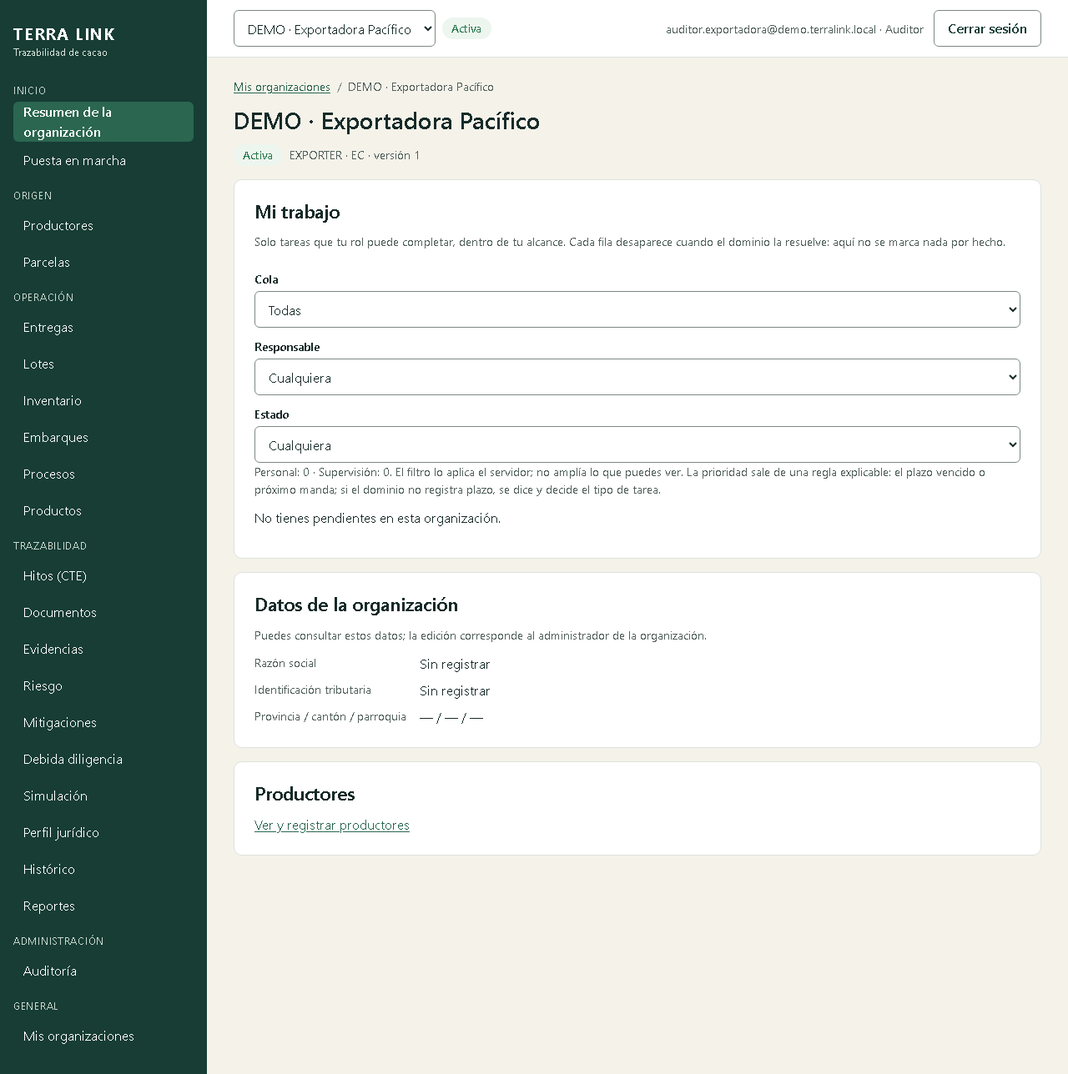
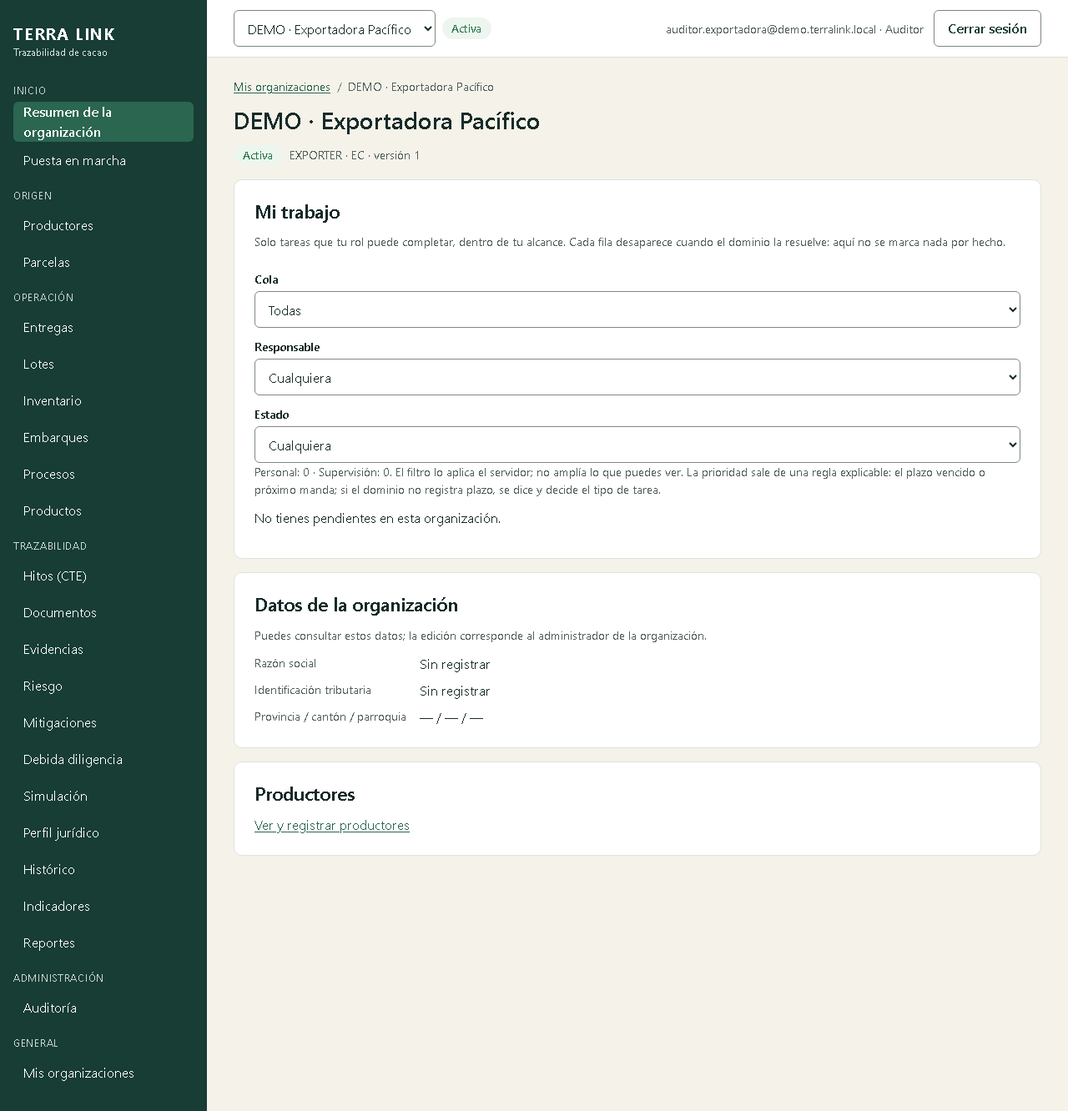
Resultados P1-014: RF-45 parcial sobre 1967366, con su condición exacta
`npm run validate` APROBADA sobre `1967366`: 849 pruebas, 72 E2E, 0 fallos
(validation-results/2026-10-18T20-43-24-702Z), con el código congelado. Desplegado y
comprobado sobre ese SHA: `indicadores.mjs` 22/22. Sin migración, así que no
corresponde respaldo.

RF-45 queda PARCIAL, y su condición NO es la escasez de datos DEMO: la parte «métrica
independiente del riesgo legal» está demostrada, pero el score compuesto exige
ponderar dimensiones con pesos que ninguna fuente fija (D-53 §1). Con datos
abundantes seguiría sin poder calcularse honestamente.

Por eso la cobertura NO sube: sigue en 39 de 60 (65,0 %). El MVP tampoco cambia, y
siguen en pie UNDETERMINED, READY y las compuertas de despacho.

D-53 propuesta recoge las cuatro decisiones abiertas —composición del score, umbral de
«datos suficientes», atribución de precio a un comprador y serie de rendimiento—, cada
una con su condición.

diff --git a/docs/sesiones/REANUDAR_2026-10-16.md b/docs/sesiones/REANUDAR_2026-10-16.md
@@ -390,6 +390,7 @@ nunca reconstruir con `up()`. **`down` no se ejecuta sobre desarrollo.**
 | **P0-003** elevación supervisada (D-04) + descarga por concesión | `de7f996` | 638 pruebas · 72 E2E | **P0-003 DONE_LOCAL.** RF-03 y RNF-01 demostrados. `8f54b71` aprobó pero **incumplía el contrato** (ver evidencia) |
 | **RNF-10 / RNF-12** avisos operativos y ensayo de retorno | `9f27cbe` | 644 pruebas · 72 E2E | Ambos **demostrados**. `/operations/alerts` y `scripts/ensayo-retorno.mjs`. P0-031 y TECH-001 **siguen abiertas** |
 | **RNF-13** observabilidad: avisos separados, métricas y trazas | `83f7d7a` | **677** pruebas · 72 E2E | **RNF-13 dada de alta y demostrada** (S1 §77: *metrics*, *tracing*, `/version`): el catálogo pasa a **60** (MVP **44**). Corregida la exposición anónima de recuentos de documentos y trabajos: la respuesta pública queda en **infraestructura** y la actividad pasa a una ruta **por organización, permiso a permiso**. **D-04 no se amplió.** `e2e/review/observabilidad.mjs` **23/23**. **RNF-05 y RNF-06 siguen pendientes** |
+| **P1-014**: indicadores comerciales · **RF-45 PARCIAL**, P1-014 entregada en su parte demostrable · **D-52(A) adoptada** | `1967366` | **849** pruebas · 72 E2E | **D-52(A) ratificada** en sus tres puntos (base declarada por registro; prima por unidad o fija con fundamento obligatorio y nunca deducida; permisos económicos propios con el auditor de solo lectura): **no cambió código**, así que no repitió validación ni despliegue. **P1-014**: siete **indicadores autodescritos** —qué mide, **fórmula**, unidad, período, **denominador**, cobertura, **procedencia** y límites—, **sin tabla nueva**. Solo se agrega **lo compatible** en moneda, unidad, producto y período; lo demás **se excluye y se cuenta**, nunca se convierte. **`SIN_DATOS`, `NO_CALCULABLE` y `RESTRINGIDO` son tres cosas distintas** y se distinguen a la vista; el cociente **trunca** a seis decimales —como P1-010— y **lo declara**. **Precio declarado ≠ pago informado ≠ presupuesto estimado**: un presupuesto **no demuestra eficiencia** y un pago informado **no acredita una transferencia**. **Separación del riesgo cumplida (RF-45)**: ningún indicador usa conclusión, severidad ni resultado técnico, y el riesgo va **aparte** diciendo que **`UNDETERMINED` no es riesgo bajo**. **Permisos sobre agregados**: `analytics:read` abre la pantalla y **cada indicador exige el de su dominio** —sin él, RESTRINGIDO **sin valor, denominador ni cobertura**—; la descarga exige además `report:export` y otra organización es **404 opaco**. **No hay score, y es deliberado**: exigiría **ponderar** dimensiones con pesos que ninguna fuente fija; tampoco se fija umbral de «datos suficientes». Eso, más «qué comprador paga mejor» (**no existe precio de VENTA**) y «potencial de aumentar producción» (**no hay serie de rendimiento**), queda en **D-53 propuesta**, cada una **con su condición exacta**. **La pantalla no dice «sin datos» por construcción**: con la fixture quedan **8 de 8 CALCULADOS**, y con período vacío **todos SIN_DATOS con su porqué**. **Defecto corregido antes de congelar**: leía `/products` como array siendo paginado y **rompía la pantalla entera** —el mismo fallo que apareció en P1-011 con otra lista—. `analytics.int-spec.ts` **16/16** · `indicadores.mjs` **22/22** · `economia.mjs` **18/18**. **Cobertura SIN CAMBIO: 39/60 = 65,0 %** —RF-45 es PARCIAL y **no se cuenta**—; MVP sin cambio |
 | **P1-012**: precio, prima y pagos informados · **RF-43 DEMOSTRADA, P1-012 DONE_LOCAL** | `4f94e7b` | **833** pruebas · 72 E2E | **S3 §32** pide añadir «**¿cuánto recibió el productor?**». El dinero cuelga de la **entrega que ya existe** —productor, producto, fecha, cantidad y unidad ya estaban—: **no hay un segundo registro** de la misma operación. Migración **0052**, dos tablas **append-only**; corregir es **otra versión con motivo**, y nada se edita ni se borra. **Cinco distinciones que sostiene el código, no solo el texto**: el **presupuesto de P1-010 no es el precio** del cacao; **un precio registrado no demuestra un pago** —el pago es otra tabla, lo **informa una persona** y Terra Link **no ejecuta transferencias**—; una **prima ausente no es cero** —`NO_DECLARADA` deja el total INCOMPLETO, y **cero declarado con fundamento** es un dato distinto que sí lo completa—; una **prima no se deduce** de calidad, trazabilidad ni conformidad —sin fundamento se rechaza con **422**, con CHECK en la base, y **liberar la calidad no hace aparecer ninguna prima**—; y **no se convierten unidades ni monedas en silencio** —precio por QQ sobre base en KG, o USD con prima en EUR, dan **NO_CALCULABLE con su razón**—. **Privacidad (RF-43)**: `economics:read/record/correct` **separados de `delivery:*`**; el técnico de campo no accede, el auditor **solo lee**, y ni la entrega, ni el expediente DD, ni el **portal del comprador** reciben campos nuevos (`portal-comprador.mjs` **17/17**). **Dos defectos corregidos antes de congelar**: fechas puras que salían como marca de tiempo **con zona** —podían cambiar de día— y la pantalla imprimiendo **los asteriscos de Markdown en crudo**. **D-52 queda PROPUESTA**, no adoptada: base del precio, significado de la prima y quién registra son **decisiones de producto** que la fuente no fija; lo implementado es la opción (A) en las tres, **escrita en el propio dato** sobre tablas append-only, para que adoptar otra **no reescriba** lo registrado. Migración **0052** con **respaldo verificado por restauración aislada** (0 errores, 97 tablas idénticas, 487 objetos). `economics.int-spec.ts` **16/16** · `economia.mjs` **18/18**. Catálogo **39/60 = 65,0 %**; MVP sin cambio (es P1) |
 | **P1-011**: histórico temporal y alertas · **RF-42 DEMOSTRADA, P1-011 DONE_LOCAL** | `ca517e1` | **817** pruebas · 72 E2E | **Sin tabla nueva y sin migración**: la línea temporal **reúne lo que ya estaba registrado**. Al implementarla apareció que `GET /plots/:id/history` **ya existía** —es el **registro de cambios de la ficha**— y la ruta nueva lo **ensombrecía**: se dejó intacta, la línea pasó a `…/timeline` y **esas mismas filas entran** como entradas `CAMBIO_DE_FICHA`, de modo que «qué cambió y por qué» se lee junto a la evolución **sin una segunda fuente de verdad**. **Tres fechas separadas** —hecho, registro, evaluación—: la que falta **se declara con el texto propio de cada tipo de hecho** y **no se sustituye** por otra. Un año sin registros se **rotula**; no se interpola ni se rellena con ceros. **Comparar enseña sus limitaciones antes del resultado** —dataset, cobertura, resultado sintético, versión de las reglas, método de levantamiento— y advierte que una diferencia **no es mejora ni deterioro**: menos hallazgos con menos datos no es una mejora. Comparar una versión **consigo misma** es **422**, no «sin cambios». Cinco alertas **derivadas y de solo lectura**, cada una con **problema, impacto, causa citada por `kind`+`id` y acción** (S4 §20); el **impacto habla solo de lo que el dato ya no puede sustentar**, nunca de una consecuencia jurídica, y hay una prueba que lo exige. **Sin umbrales, caducidades ni plazos inventados**: la única vigencia citada es la que **la propia evidencia declara**. `POST`/`PATCH`/`DELETE` sobre alertas → **404**; leerlas no cambia nada. Alcance por organización **y por recurso**: lo ajeno es 404 y lo que el rol no lee **se declara ausente**, no vacío. **Un defecto corregido antes de congelar**: la pantalla leía `/plots` como array siendo paginado y el selector no se dibujaba; ahora lee `items` **y avisa si la lista está truncada**. `history.int-spec.ts` **10/10** · `historico.mjs` **18/18** · `estados-web.mjs` y `web-por-rol.mjs` **APROBADOS**. Catálogo **38/60 = 63,3 %**; MVP sin cambio (es P1) |
 | **P1-010**: presupuesto de preparación · **RF-41 DEMOSTRADA, P1-010 DONE_LOCAL** | `e0f9071` | **807** pruebas · 72 E2E | **D-51 adoptada**: el dinero lo **declara la organización** como parámetros con concepto, unidad, importe, **USD**, vigencia, autor y versión. **Nada precargado** del ejemplo de S3 y **ninguna llamada externa**. Las **cantidades también se declaran** y quedan **estimadas**: una versión de geometría no demuestra una visita, una evaluación automática no demuestra una revisión humana, un trabajo satelital no demuestra un servicio facturado; lo observado va **aparte y con fecha**, y no se convierte en coste. **Ausencia no es cero**: total **INCOMPLETO** separando lo conocido. Reparto por **productor distinto del grafo de origen** y por **tonelada del peso FÍSICO del ledger**, con su fecha; sin denominador válido, **no calculable** —nunca cero ni infinito—. **Reproducible**: la estimación lleva dentro sus versiones, y cambiar la tarifa después no la reescribe (append-only). Aritmética decimal exacta y **un solo formato** por número. **Dos defectos corregidos antes de congelar**: el doble formato decimal y los productores de un lote de **proceso**, que salían 0 por mirar solo recepciones directas. Migración **0051** con **respaldo verificado por restauración aislada** (0 errores, 95 tablas idénticas, 880 objetos). `presupuesto.mjs` **13/13** · `simulacion.mjs` **15/15**. Catálogo **37/60 = 61,7 %**; MVP sin cambio (es P1) |

diff --git a/docs/qa/EVIDENCIA_P1014_INDICADORES_2026-10-18.md b/docs/qa/EVIDENCIA_P1014_INDICADORES_2026-10-18.md
@@ -1,0 +1,115 @@
+# Evidencia — P1-014 «Indicadores comerciales» (2026-10-18)
+
+**Validación**: `npm run validate` **APROBADA** sobre `1967366` — **849** pruebas, **72** E2E, 0 fallos
+(`validation-results/2026-10-18T20-43-24-702Z`). **Despliegue**: `/version` → `1967366` (`BUILD_ARG`),
+esquema **`0052`** (sin cambio). **Sin migración**: todo se deriva de tablas que ya existían, así que **no
+corresponde respaldo**.
+
+## 1. Contraste de los criterios originales, uno a uno
+
+| Criterio (referencia exacta) | Qué exige | Estado |
+| --- | --- | --- |
+| **S3 §41** (`docs/sources/S3:1495`): seis preguntas comerciales | Responder lo que los datos permitan | **PARCIAL**: se responden las que no exigen inventar; las otras **tres se declaran con su condición exacta** (§5) |
+| **RF-45** (`docs/03:61`): «métrica **independiente** del riesgo legal» | Separación estricta | **CUMPLIDO**: ningún indicador usa conclusión, severidad ni resultado técnico; hay prueba que lo exige |
+| **P1-014** (`docs/18:215`): «métricas comerciales **separadas** del riesgo jurídico» | Lo mismo, en la pantalla | **CUMPLIDO**: el riesgo tiene su propia sección, rotulada «no es un indicador comercial» |
+| **P1-014**: «**denominadores**» | Decir sobre qué se divide | **CUMPLIDO**: cada cociente publica su denominador con etiqueta y valor; sin denominador válido, **NO_CALCULABLE** |
+| **P1-014**: «**permiso**» | Autorizar el agregado | **CUMPLIDO**: `analytics:read` abre la pantalla y **cada indicador exige el permiso de su dominio**; la descarga exige además `report:export` |
+| **RF-45**: «**supplier score** comercial» | Un score | **PENDIENTE — condición exacta**: un score exige **ponderar** dimensiones y **ninguna fuente fija los pesos**. Abierto en **D-53 §1**. No se publica ningún número compuesto |
+
+**RF-45 queda PARCIAL**, y su condición no es la escasez de datos: es **la decisión de ponderación (D-53 §1)**.
+Con datos abundantes, el score seguiría sin poder calcularse honestamente.
+
+## 2. Qué se entregó
+
+Siete indicadores, cada uno **autodescrito**: `what_it_measures`, `formula`, `unit`, `period`, `denominator`,
+`coverage`, `provenance`, `limits` y —cuando no hay valor— `why`.
+
+| Indicador | Procedencia | Exige |
+| --- | --- | --- |
+| Precio medio ponderado por cantidad, **por grupo compatible** | DECLARADO | `economics:read` |
+| Cobertura del dato económico | REGISTRADO | `economics:read` |
+| Pagos informados sobre lo acordado, **por moneda** | INFORMADO | `economics:read` |
+| Volumen recibido, **por unidad y producto** | OBSERVADO | `delivery:read` |
+| Decisiones de calidad | REGISTRADO | `delivery:read` |
+| Presupuesto de preparación estimado | ESTIMADO | `cost:read` |
+| Parcelas con geometría vigente | REGISTRADO | `plot:read` |
+
+Más un **resumen por productor** —que **no es un score**— y una **descarga** con fórmulas, denominadores,
+cobertura, límites y advertencias.
+
+## 3. Reutilización, sin sistemas paralelos
+
+Precio y prima (P1-012), cantidades recibidas y calidad (P0-012), costes guardados (P1-010), versiones de
+geometría (P0-007), evaluaciones de riesgo (solo como **contexto**), la aritmética decimal de P1-010
+(`normalizar`) y el escritor XLSX de importaciones. **No hay tabla nueva ni migración.**
+
+## 4. Lo que el código impide, no solo el texto
+
+- **Solo se agrega lo compatible**: moneda, unidad, producto y período. Un precio por **QQ** sobre base en
+  **KG** se **excluye y se cuenta**; **EUR** forma su **propio grupo**; otro producto, otro grupo. **Nunca se
+  convierte nada.**
+- **Ausencia no es cero**: la entrega sin dato económico entra en el **denominador** de la cobertura, no en el
+  precio. Probado con un caso discriminante.
+- **Tres ausencias distintas**: `SIN_DATOS` (con su porqué), `NO_CALCULABLE` (con su razón) y `RESTRINGIDO`
+  (sin valor, **sin denominador y sin cobertura**: ni un recuento se filtra).
+- **Precio ≠ pago ≠ presupuesto**: cada uno con su `provenance` y su advertencia. Un presupuesto **no
+  demuestra eficiencia operativa**; un pago informado **no acredita una transferencia**.
+- **Truncado declarado**: el cociente se calcula en decimal exacto y **se trunca** a seis decimales, como en
+  P1-010, y cada indicador con cociente **lo dice**.
+- **Período sin inventar**: sin `from`/`to` se usa **todo lo registrado** y se rotula; un período invertido es
+  **422**; uno vacío es **SIN_DATOS con su porqué**, nunca ceros.
+
+## 5. Lo que NO se responde, con su condición exacta
+
+| Pregunta de S3 §41 | Condición para responderla |
+| --- | --- |
+| ¿Qué comprador paga mejor? | **No existe ningún precio de VENTA**: lo registrado es lo que la organización acuerda con el **productor**. Atribuirlo a un comprador exigiría una **relación explícita** que no existe. Condición: registrar precio de venta por embarque o comprador (**D-53 §3**) |
+| ¿Qué fincas pueden aumentar producción? | **No hay serie de rendimiento** por parcela ni superficie productiva verificada. Responderlo sería inventarlo (**D-53 §4**) |
+| ¿Qué productores tienen menor riesgo? (como métrica comercial) | RF-45 **prohíbe** que la conclusión regulatoria alimente un indicador comercial. Un «riesgo comercial» propio sería un modelo nuevo con factores y pesos no decididos (**D-53 §1**) |
+| Score compuesto de proveedor | Exige **ponderar**; los pesos no están en ninguna fuente (**D-53 §1**) |
+
+## 6. La pantalla no dice «sin datos» por construcción
+
+La prueba y la revisión usan **casos positivos y negativos discriminantes** sobre una **fixture sintética
+controlada**: dos entregas comparables (2 USD/KG sobre 100 KG y 3 USD/KG sobre 200 KG → **2,666666 USD/KG**
+truncado, con denominador **300**), una incompatible por unidad, otra por moneda, otra por producto, una sin
+dato económico y una con solo prima. Cada cálculo **responde**, **excluye** lo que debe y **explica** lo que
+no puede cerrar.
+
+**Dato del entorno**: con la fixture cargada, **8 de 8** indicadores quedan CALCULADOS; con un período vacío,
+todos pasan a **SIN_DATOS con su porqué**. Las dos caras están demostradas.
+
+## 7. Permisos sobre agregados, denominadores, filtros y descargas
+
+- El **técnico de campo** no abre la pantalla (**403**) y no ve la entrada en el menú.
+- El **auditor** la abre, pero el **presupuesto** le sale **RESTRINGIDO** —no tiene `cost:read`— **sin valor,
+  sin denominador y sin cobertura**. El admin lo recibe con su estado real (control autorizado).
+- La **descarga** exige además `report:export`: el técnico recibe **403**.
+- **Otra organización es 404 opaco**: comparar asociaciones **no** autoriza consultas cruzadas.
+
+## 8. Lo que NO hace
+
+- **No publica un score** ni un umbral de «datos suficientes».
+- **No convierte** monedas ni unidades, y **no suma** lo incompatible.
+- **No usa** el riesgo regulatorio como métrica comercial. **`UNDETERMINED` no es riesgo bajo.**
+- **No escribe nada**: no hay `POST` en esta superficie (404) y leer no cambia el dominio.
+- **No levanta** READY ni el despacho.
+- **Los datos sintéticos de revisión no sustentan conclusiones** sobre compradores, regiones ni productores
+  reales, y la respuesta lo dice en cada lectura.
+
+## 9. Resultados
+
+| Comprobación | Resultado |
+| --- | --- |
+| `analytics.int-spec.ts` (fixture sintética discriminante) | **16/16** |
+| `src/authz/catalog.spec.ts` | **9/9** |
+| `node e2e/review/indicadores.mjs` | **22/22** sobre el despliegue |
+| `node e2e/review/economia.mjs` (regresión de P1-012) | **18/18** |
+| `node e2e/review/estados-web.mjs` · `web-por-rol.mjs` | **APROBADOS** |
+| `npm run validate` sobre `1967366` | **APROBADA**: 849 pruebas, 72 E2E, 0 fallos |
+| `node e2e/review/indicadores.mjs` sobre el despliegue de `1967366` | **22/22** |
+
+## 10. Decisiones abiertas
+
+**D-53 (propuesta)**: composición del score y sus pesos, umbral de «datos suficientes», atribución de precio a
+un comprador y serie de rendimiento. Ninguna se resolvió en silencio, y ninguna bloquea lo entregado.

diff --git a/docs/24_TRAZABILIDAD_REQUISITOS.md b/docs/24_TRAZABILIDAD_REQUISITOS.md
@@ -29,6 +29,6 @@ Referencias S1–S4 y secciones corresponden a los originales conservados en `so
 | S1 §44, S3 §18; consulta oficial EU-IS | RF-38 | P1-007 | 13/15 | Receipt ACCEPTANCE/UNKNOWN, no producción implícita |
 | S2 §§6–8; S3 §§5, 17 | RF-39 | P1-008 | 09/15 | Contratos/webhook/idempotencia |
 | S3 §§33, 37, 40–41 | RF-40–42/45 | P1-009–011/014 | 02/10/13/15 | **RF-40 DEMOSTRADA y P1-009 DONE_LOCAL el 2026-10-18** sobre `0741bec` (**APROBADA**, 790 pruebas): simulación por lote de **solo lectura** (sin `POST` ni `PATCH`, sin tabla de escenarios), con **entradas y fecha visibles**, **mismas reglas que el preflight** —`evaluateRequirements()` y las comprobaciones de lote; lo que depende de un embarque se declara **no simulado**— y **el porcentaje sin poder de decisión**: con cualquier causa abierta, `NO EXPORTABLE`. Separa **estado real**, **escenario** («suponer no es resolver») y **lo que seguiría bloqueado**, clasificado en **dato / decisión / capacidad**. Suponerlo todo **no habilita** READY ni el despacho. `simulation.int-spec.ts` (10) · `simulacion.mjs` **15/15**. **RF-41 DEMOSTRADA y P1-010 DONE_LOCAL el 2026-10-18** sobre `e0f9071` (**APROBADA**, 807 pruebas), con **D-51 adoptada**: importes **declarados** por la organización en **USD**, versionados y con vigencia, **sin precargar** nada del ejemplo de S3; cantidades **declaradas y estimadas**, con lo observado **aparte y fechado**; **ausencia no es cero** (total INCOMPLETO); reparto por **productor distinto del grafo de origen** y por **tonelada del peso físico del ledger**, o **no calculable**; **reproducible** —una tarifa nueva no reescribe lo guardado— sobre dos tablas **append-only** (migración **0051**, respaldo verificado). `cost.int-spec.ts` (14) · `cost.spec.ts` (3) · `presupuesto.mjs` **13/13**. **RF-42 DEMOSTRADA y P1-011 DONE_LOCAL el 2026-10-18** sobre `ca517e1`: histórico temporal que **reutiliza** `plot_history` —el mismo registro de cambios que publica `GET …/plots/{id}/history`, que **sigue intacto**—, las versiones de geometría, los trabajos satelitales, la evidencia y las evaluaciones de riesgo; **sin tabla nueva ni migración**. **Tres fechas separadas** (hecho, registro, evaluación) con la ausente **declarada** y nunca sustituida; años sin registros **rotulados**, sin interpolar ni rellenar con ceros. Comparar publica **las limitaciones antes del resultado** (dataset, cobertura, resultado sintético, versión de reglas, método) y advierte que una diferencia **no es mejora ni deterioro**; comparar una versión consigo misma es **422**. Cinco alertas **derivadas y de solo lectura** con **problema, impacto, causa trazable y acción** (S4 §20), **sin umbrales, caducidades ni plazos inventados**. `history.int-spec.ts` (10) · `historico.mjs` **18/18**. Evidencia: `docs/qa/EVIDENCIA_P1011_HISTORICO_2026-10-18.md` |
-| S2 §§7, 19, 26; S3 §§32, 39 | RF-43–46 | P1-012–015 | 02/12/15 | **RF-43 DEMOSTRADA y P1-012 DONE_LOCAL el 2026-10-18** sobre `4f94e7b`, con **D-52(A) adoptada** —base declarada por registro, prima con fundamento obligatorio y nunca deducida, y permisos económicos propios—: S3 §32 pide añadir «**¿cuánto recibió el productor?**», y el dinero se registra **sobre la entrega que ya existe** —sin registro paralelo— en dos tablas **append-only** (migración **0052**). **Versionado**: corregir es otra versión **con motivo**, y el historial completo queda. **Moneda y unidad** se conservan y **nunca se convierten**: precio por QQ sobre base en KG, o precio en USD con prima en EUR, dan **NO_CALCULABLE con su razón**. **Ninguna transferencia**: el pago es **informado** por una persona y **un precio registrado no demuestra un pago**. **Prima ausente ≠ cero** —el total queda INCOMPLETO— y **no deducible**: sin fundamento declarado se rechaza (CHECK en la base), y liberar la calidad **no** hace aparecer ninguna prima. **Privacidad (RF-43)**: `economics:read/record/correct` separados de `delivery:*`; técnico de campo sin acceso, auditor de solo lectura; ni la entrega, ni el expediente DD, ni el portal del comprador reciben campos nuevos (`portal-comprador.mjs` **17/17**). `economics.int-spec.ts` (16) · `economia.mjs` **18/18**. Resto de la fila (RF-44–46) **sin empezar**. Evidencia: `docs/qa/EVIDENCIA_P1012_ECONOMIA_2026-10-18.md` |
+| S2 §§7, 19, 26; S3 §§32, 39 | RF-43–46 | P1-012–015 | 02/12/15 | **RF-43 DEMOSTRADA y P1-012 DONE_LOCAL el 2026-10-18** sobre `4f94e7b`, con **D-52(A) adoptada** —base declarada por registro, prima con fundamento obligatorio y nunca deducida, y permisos económicos propios—: S3 §32 pide añadir «**¿cuánto recibió el productor?**», y el dinero se registra **sobre la entrega que ya existe** —sin registro paralelo— en dos tablas **append-only** (migración **0052**). **Versionado**: corregir es otra versión **con motivo**, y el historial completo queda. **Moneda y unidad** se conservan y **nunca se convierten**: precio por QQ sobre base en KG, o precio en USD con prima en EUR, dan **NO_CALCULABLE con su razón**. **Ninguna transferencia**: el pago es **informado** por una persona y **un precio registrado no demuestra un pago**. **Prima ausente ≠ cero** —el total queda INCOMPLETO— y **no deducible**: sin fundamento declarado se rechaza (CHECK en la base), y liberar la calidad **no** hace aparecer ninguna prima. **Privacidad (RF-43)**: `economics:read/record/correct` separados de `delivery:*`; técnico de campo sin acceso, auditor de solo lectura; ni la entrega, ni el expediente DD, ni el portal del comprador reciben campos nuevos (`portal-comprador.mjs` **17/17**). `economics.int-spec.ts` (16) · `economia.mjs` **18/18**. **RF-45 PARCIAL y P1-014 entregada en su parte demostrable el 2026-10-18**: siete **indicadores comerciales autodescritos** —qué mide, fórmula, unidad, período, **denominador**, cobertura, procedencia y límites—, que **solo agregan lo compatible** en moneda, unidad, producto y período y **excluyen contando** lo demás, sin convertir nada. `SIN_DATOS`, `NO_CALCULABLE` y `RESTRINGIDO` se distinguen; el cociente **trunca** a seis decimales y lo declara. **Separación del riesgo cumplida**: ningún indicador usa conclusión, severidad ni resultado técnico, y el riesgo va en un bloque aparte que dice que **`UNDETERMINED` no es riesgo bajo**. **Permisos sobre agregados**: `analytics:read` abre la pantalla y **cada indicador exige el permiso de su dominio** —sin él, RESTRINGIDO **sin valor, denominador ni cobertura**—; la descarga exige además `report:export`, y otra organización es **404 opaco**. **Lo que falta es el score compuesto**, y su condición **no es la escasez de datos**: exige **ponderar** dimensiones con pesos que ninguna fuente fija (**D-53 §1**); igual que «qué comprador paga mejor» (no existe precio de VENTA, **D-53 §3**) y «potencial de aumentar producción» (no hay serie de rendimiento, **D-53 §4**). `analytics.int-spec.ts` (16) · `indicadores.mjs` **22/22**. RF-44 y RF-46 **sin empezar**. Evidencia: `docs/qa/EVIDENCIA_P1014_INDICADORES_2026-10-18.md`. Evidencia de RF-43: `docs/qa/EVIDENCIA_P1012_ECONOMIA_2026-10-18.md` |
 
 Propuestas adicionales rastreables: outbox y ledger (ADR-0003), membresías/grants (ADR-0002), separación paquete/submission (ADR-0004), audit-first y conservación del stack (ADR-0001). Ninguna debe convertirse en hecho del repo sin evidencia.

diff --git a/docs/18_BACKLOG.md b/docs/18_BACKLOG.md
@@ -212,7 +212,7 @@ Aceptación: recorrido con dataset/usuarios de piloto, Android real, discrepanci
 | P1-011 | Histórico temporal/alertas | P0-006/028 | **DONE_LOCAL (2026-10-18)**: la línea temporal **reutiliza** el registro de cambios ya existente (`plot_history`, el mismo de `GET …/plots/{id}/history`), las versiones de geometría, los trabajos satelitales, la evidencia y las evaluaciones de riesgo — **sin tabla nueva ni migración**. Tres fechas separadas con la ausente **declarada**; años sin registros **rotulados**, nunca interpolados. Comparar publica sus **limitaciones antes del resultado** y advierte que una diferencia **no es mejora ni deterioro**. Cinco alertas **derivadas y de solo lectura** con **problema, impacto, causa trazable y acción** (S4 §20), **sin umbrales ni plazos inventados**. Evidencia: `docs/qa/EVIDENCIA_P1011_HISTORICO_2026-10-18.md` |
 | P1-012 | Precio/prima/pagos registrados | P0-012/029 | **DONE_LOCAL (2026-10-18)**: el dinero cuelga de la **entrega existente** (migración **0052**, dos tablas append-only), **sin registro paralelo**. Dato **versionado**: corregir es otra versión **con motivo**, y nada se edita ni se borra. **Moneda y unidad guardadas y nunca convertidas** —lo incompatible queda `NO_CALCULABLE` con su razón—. **Privacidad**: `economics:*` separado de `delivery:*`, técnico de campo sin acceso, auditor de solo lectura, y ni la entrega ni el expediente DD ni el portal del comprador reciben campos nuevos. **Ninguna transferencia**: el pago es **informado** por una persona. **Prima ausente ≠ cero** y **nunca deducida** sin fundamento declarado. **D-52(A) adoptada** el 2026-10-18 en sus tres puntos (base declarada por registro; prima por unidad o fija con fundamento obligatorio; permisos propios de ORG_ADMIN y MANAGER, auditor de solo lectura). Evidencia: `docs/qa/EVIDENCIA_P1012_ECONOMIA_2026-10-18.md` |
 | P1-013 | OCR/IA asistida | P0-018/019 | Campos sugeridos con fuente/confianza y revisión; no decisión regulatoria automática |
-| P1-014 | Analytics/supplier score | P0-030 | Métricas comerciales separadas de riesgo jurídico, denominadores y permiso |
+| P1-014 | Analytics/supplier score | P0-030 | **PARCIAL (2026-10-18)**: entregados **siete indicadores autodescritos** —qué mide, fórmula, unidad, período, denominador, cobertura, procedencia y límites—, **separados del riesgo jurídico** (ningún indicador usa conclusión, severidad ni resultado técnico), con **permiso propio** `analytics:read` **más el de cada dominio** y descarga con `report:export`. Solo se agrega lo compatible en moneda, unidad, producto y período; lo incompatible **se excluye y se cuenta**. **Falta el score compuesto**, y su condición **no es la falta de datos**: exige **ponderar** dimensiones y esos pesos no están en ninguna fuente (**D-53 §1**). Evidencia: `docs/qa/EVIDENCIA_P1014_INDICADORES_2026-10-18.md` |
 | P1-015 | Idiomas/SSO/consumo | TECH-001 y piloto | ADR por componente, español conservado y límites/coste/SSO comprobados |
 
 ## P2 fuera del MVP

diff --git a/docs/decisiones/CONTRASTE_DOCUMENTACION_RAIZ_2026-10-16.md b/docs/decisiones/CONTRASTE_DOCUMENTACION_RAIZ_2026-10-16.md
@@ -143,7 +143,7 @@ Las quince corresponden a historias **P1**, ninguna iniciada.
 | RF-42 | Histórico temporal y alertas | P1-011 | **DEMOSTRADO** (2026-10-18): línea temporal que **reutiliza** el registro de cambios existente, las versiones, los análisis, la evidencia y el riesgo —**sin tabla nueva**—; **tres fechas separadas** y la ausente declarada; años sin registros **rotulados**, no interpolados; comparar con sus **limitaciones delante** y sin lenguaje de mejora ni deterioro; alertas **derivadas y de solo lectura** con **problema, impacto, causa y acción** (S4 §20) y **sin umbrales inventados**. Evidencia: `docs/qa/EVIDENCIA_P1011_HISTORICO_2026-10-18.md` |
 | RF-43 | Precio, prima y pagos | P1-012 | **DEMOSTRADO** (2026-10-18), con **D-52(A) adoptada**: registro **versionado** de precio, prima y **pagos informados** sobre la entrega existente; **no se ejecuta ninguna transferencia**; **moneda y unidad** conservadas y **nunca convertidas**; **privacidad** con permisos propios —leer una entrega no da acceso a su dinero— y sin campos nuevos para el comprador. **Prima ausente ≠ cero** y **no deducible** sin fundamento. Evidencia: `docs/qa/EVIDENCIA_P1012_ECONOMIA_2026-10-18.md` |
 | RF-44 | Extracción asistida de documentos | P1-013 | **NO DEMOSTRADO** |
-| RF-45 | Analytics / supplier score | P1-014 | **NO DEMOSTRADO** |
+| RF-45 | Analytics / supplier score | P1-014 | **PARCIAL** (2026-10-18): la parte «métrica **independiente del riesgo legal**» está **demostrada** —siete indicadores comerciales autodescritos, con denominadores y permisos, y el riesgo en un bloque aparte que dice que `UNDETERMINED` no es riesgo bajo—. **El «supplier score» no se publica**: exige **ponderar** precio, calidad, volumen y trazabilidad, y **ninguna fuente fija esos pesos** (**D-53 §1**). **No cuenta como demostrado.** Evidencia: `docs/qa/EVIDENCIA_P1014_INDICADORES_2026-10-18.md` |
 | RF-46 | Multilenguaje / SSO / consumo | P1-015 | **NO DEMOSTRADO** |
 | RF-47 | Referencia pública por entidad (`public_reference`) | P1-002 | **NO DEMOSTRADO** — añadida el 2026-10-16 por el contraste de obligaciones (§2.bis). La columna no existe en ninguna tabla |
 
